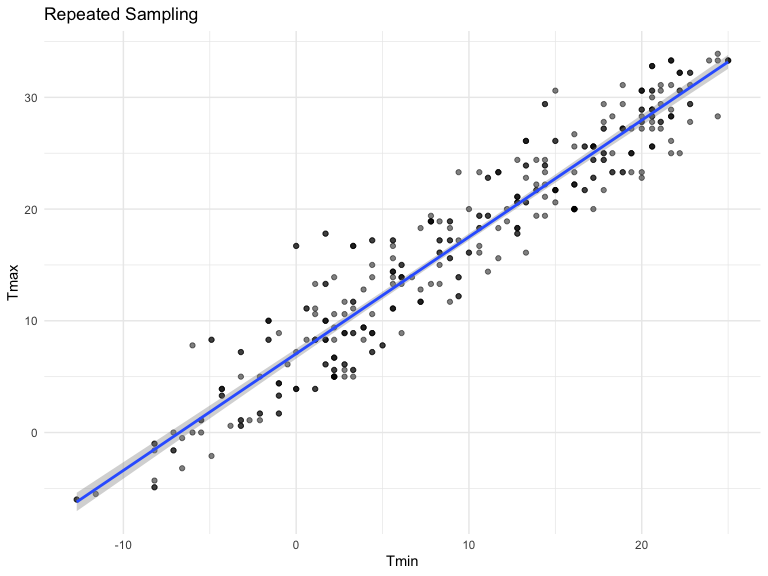
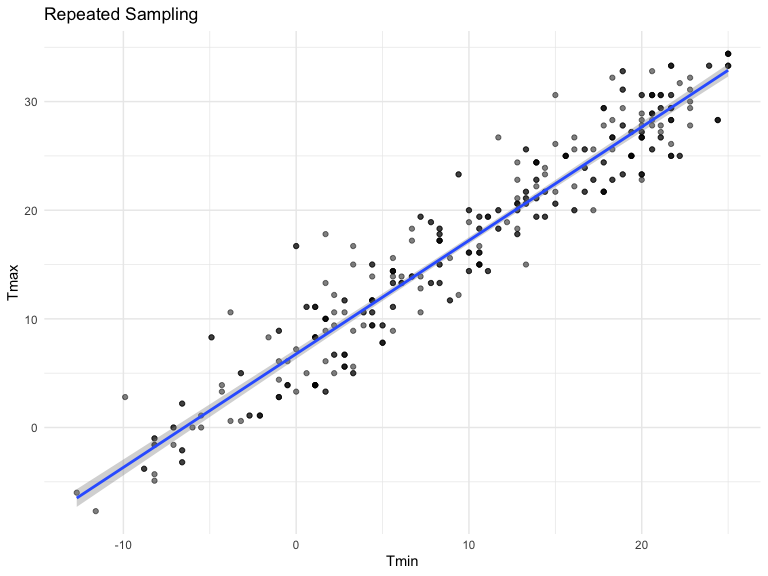
built the 95% confidence interval and also plotted the distribution for the goodness of fit.

diff --git a/HW6.md b/HW6.md
@@ -244,7 +244,7 @@ weather_df =
     name = recode(id, USW00094728 = "CentralPark_NY"),
     tmin = tmin / 10,
     tmax = tmax / 10) %>%
-  select(name, id, everything()) %>% view()
+  select(name, id, everything())
 ```
 
     ## Registered S3 method overwritten by 'crul':
@@ -314,51 +314,80 @@ boot_straps
     ## # … with 4,990 more rows
 
 Let’s now produce estimates for each bootstrap sample, compute their
-`log` result, then plot their distribution:
+`log` result, and build the dataframe for r-squared estimates, then plot
+their distribution:
 
 ``` r
 log_beta = 
   boot_straps %>% 
   mutate(
     model = map(strap_sample, ~lm(tmax ~ tmin, data = .x)),
-    results = map(model, broom::tidy)) %>% 
+    coef_results = map(model, broom::tidy),
+    rsquared_results = map(model, broom::glance)) %>% 
   select(-strap_sample, -model) %>% 
-  unnest() %>% 
-  select(strap_number, term, estimate) %>%
+  unnest() %>%
+  select(strap_number, term, estimate, r.squared, adj.r.squared)
+
+# dataframe for coefficients
+log_coeff = 
+  log_beta %>% 
   pivot_wider(
     names_from = "term",
     values_from = "estimate") %>% 
   janitor::clean_names() %>% 
   mutate(
     log_estimate = log(intercept * tmin))
-head(log_beta)
+
+# dataframe for r-squared
+rsquared_df = 
+  log_beta %>% 
+  select(strap_number, r.squared, adj.r.squared) %>% 
+  distinct()
 ```
 
-    ## # A tibble: 6 x 4
-    ##   strap_number intercept  tmin log_estimate
-    ##          <int>     <dbl> <dbl>        <dbl>
-    ## 1            1      7.02  1.06         2.00
-    ## 2            2      7.41  1.02         2.02
-    ## 3            3      7.63  1.01         2.04
-    ## 4            4      6.87  1.06         1.99
-    ## 5            5      7.36  1.04         2.04
-    ## 6            6      7.03  1.06         2.00
-
-**Density Plot:**
+**Density Plot for both r-squared and coefficient estimates:**
 
 ``` r
-log_beta %>% 
+log_plot = 
+  log_coeff %>% 
   ggplot(aes(x = log_estimate)) +
-  geom_density() +
+  geom_density(color = "green") +
   labs(
     title = "Distribution of Log intercept and Slope",
     x = "Log Estimates",
     y = "Density")
+
+rsquared_plot = 
+  rsquared_df %>% 
+  ggplot(aes(x = r.squared)) +
+  geom_density(color = "red") +
+  labs(
+    title = "Distribution of the goodness of fit",
+    x = "R-squared",
+    y = "Density")
+
+gridExtra::grid.arrange(log_plot, rsquared_plot, ncol = 2)
 ```
 
 <img src="HW6_files/figure-gfm/unnamed-chunk-15-1.png" width="90%" />
 
-The `log(beta_0*beta_1)` looks normally distributed with a dent at the
-maximum point (turning point).
+The `log(beta_0*beta_1)` looks normally distributed and so does the
+r-squared (goodness of fit) plot.
 
-**95% Confidence Interval:**
+**95% Confidence Interval for the log coefficient:**
+
+``` r
+quantile(pull(log_coeff, log_estimate), c(0.025, 0.975))
+```
+
+    ##     2.5%    97.5% 
+    ## 1.965485 2.057692
+
+**95% Confidence Interval for R-squared:**
+
+``` r
+quantile(pull(rsquared_df, r.squared), c(0.025, 0.975))
+```
+
+    ##      2.5%     97.5% 
+    ## 0.8936271 0.9269555
